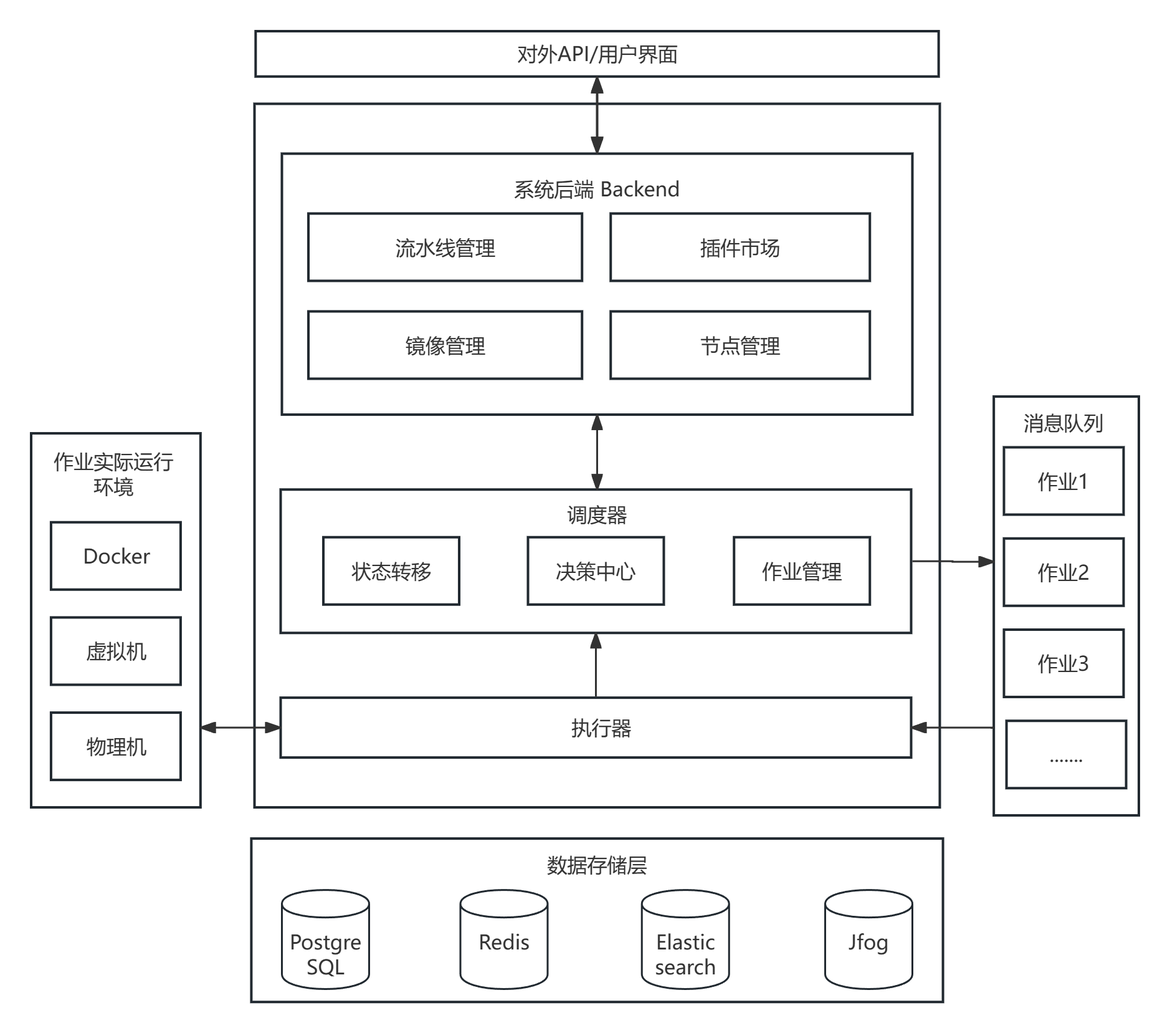
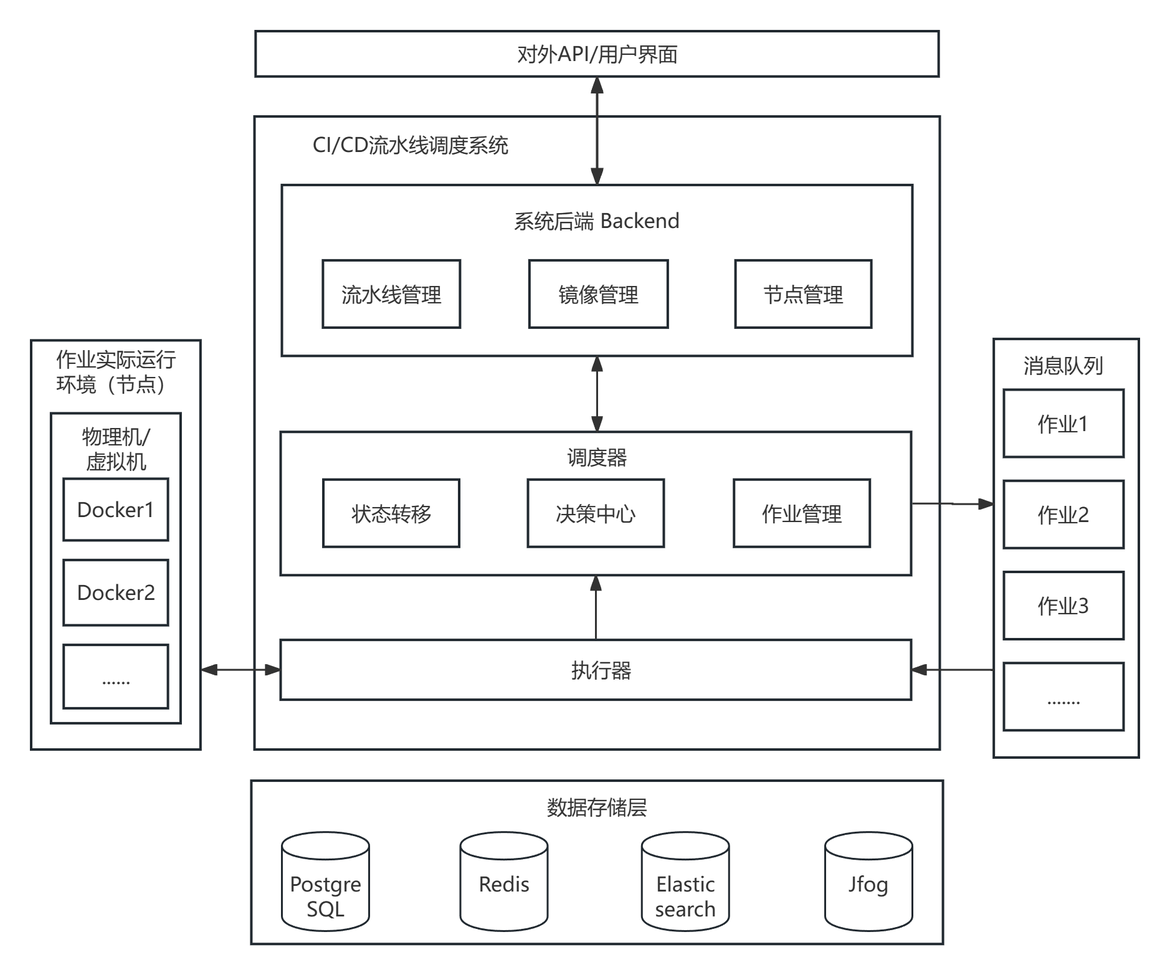
完成了摘要等

diff --git a/chapters/第六章 系统测试.tex b/chapters/第六章 系统测试.tex
@@ -1,9 +1,34 @@
 % !TeX root = ../main.tex
 
 \chapter{系统测试}
-一些废话
+本章将会从系统的功能性需求与非功能性需求两个方面，对前两个章节设计与实现的功能进行测试与分析。
+功能性需求采用黑盒测试，测试本系统能否正常地提供给用户流水线管理、镜像管理和节点管理的功能，同时也要重点测试人工干预流水线操作后流水线的状态转移。
+非功能性测试主要从两个方面进行，首先测试接口在不同并发量下的响应时间，然后从不同作业量下的响应时间和执行时间来测试调度器与执行器处理作业的能力。
+
 \section{测试环境}
-系统中需要部署的服务包括
+系统中需要部署的服务包括Backend服务、调度器服务、执行器服务、数据库服务PostgreSQL、缓存服务Redis、消息队列RocketMQ，镜像服务器，
+其中调度器服务与执行器服务为多实例部署。
+测试环境硬件配置清单如表\ref{tab:测试环境硬件配置清单}所示。
+
+\begin{table}[ht]
+  \centering
+  \caption{测试环境硬件配置清单}
+  \label{tab:测试环境硬件配置清单}
+  \renewcommand{\arraystretch}{1.5}
+  \begin{tabular}{|p{1cm}|p{1.5cm}|p{1cm}|p{1cm}|p{1cm}|p{6cm}|}
+  \hline
+  编号 & 操作系统 & CPU核心数 & 内存（GB）& 硬盘 & 部署服务 \\ \hline
+  1 & CentOS & 4 & 8 & 200G & 调度器 \\ \hline
+  2 & CentOS & 4 & 8 & 200G & 调度器 \\ \hline
+  
+  3 & CentOS & 4 & 8 & 200G & 镜像服务器 \\ \hline
+  4 & CentOS & 8 & 16 & 200G & 数据库服务PostgreSQL、缓存服务Redis、消息队列RocketMQ \\ \hline
+  5 & CentOS & 8 & 16 & 200G & 执行器 \\ \hline
+  6 & CentOS & 8 & 16 & 200G & 执行器 \\ \hline
+  7 & CentOS & 8 & 16 & 200G & Backend \\ \hline
+  \end{tabular}
+\end{table}
+
 
 \section{功能测试}
 本小节对系统的三个功能模块中的各个具体用例进行测试，并以测试用例的形式对过程进行了说明。
@@ -13,15 +38,23 @@
 
 设计作业管理测试用例时，检查点主要有对流水线及其各个子概念的创建、编辑、删除和查看，结果均符合预期，如表\ref{tab:作业管理测试用例表}所示。
 
-\begin{table}[ht]
-  \centering
-  \caption{作业管理测试用例表}
-  \label{tab:作业管理测试用例表}
-  \begin{tabular}{|p{1.5cm}|p{2.5cm}|p{3cm}|p{3cm}|p{1.5cm}|}
+\renewcommand{\arraystretch}{1.5}
+\begin{longtable}{|p{1.5cm}|p{2.5cm}|p{3cm}|p{3cm}|p{1.5cm}|}
+  \caption{作业管理测试用例表} \label{tab:作业管理测试用例表} \\
   \hline
   \multicolumn{1}{|p{1.5cm}|}{测试模块} & \multicolumn{4}{l|}{流水线管理} \\ \hline
   \multicolumn{1}{|p{1.5cm}|}{模块功能} & \multicolumn{4}{l|}{流水线的配置、编辑和查看} \\ \hline
   \multicolumn{1}{|p{1.5cm}|}{测试目的} & \multicolumn{4}{l|}{验证系统是否能正确地对流水线进行配置} \\ \hline
+  \endfirsthead
+  \multicolumn{5}{c}%
+  {{\bfseries \tablename\ \thetable{} -- 续表}} \\
+  \hline
+  \textbf{用例编号} & \textbf{检查点} & \textbf{操作步骤} & \textbf{预期输出} & \textbf{结果} \\ \hline
+  \endhead
+  \hline \multicolumn{5}{|r|}{{续下页}} \\ \hline
+  \endfoot
+  \hline
+  \endlastfoot
   用例编号 & 检查点 & 操作步骤 & 预期输出 & 结果 \\ \hline
   1-1-1 & 创建流水线 & 1、进入“我的流水线”Tab页，点击“创建”按钮； \newline 2、录入流水线基本设置； \newline 3、点击“保存”按钮。 & 1、出现创建成功提示信息； \newline 2、在UI界面中看到流水线记录。 & 符合预期 \\ \hline
   1-1-2 & 创建流水线\newline——创建阶段 & 1、在用例1-1-1中切换至拓扑编辑Tab页； \newline 2、在已有的初始阶段上录入基本设置； \newline 3、点击加号增加几个新的阶段并录入基本设置。 & 在流水线的拓扑结构UI界面中看到新创建的阶段 & 符合预期 \\ \hline
@@ -30,8 +63,8 @@
   1-2-1 & 编辑流水线 & 1、在“我的流水线”Tab页，在对应流水线处点击“编辑”按钮； \newline 2、修改基本设置； \newline 3、修改拓扑结构。 & 配置页和拓扑结构页的内容更新为编辑后的新内容 & 符合预期 \\ \hline
   1-3-1 & 删除流水线 & 1、在“我的流水线”Tab页，在对应流水线处点击“删除”按钮； \newline 2、在提示弹窗中点击“确认”按钮。 & 出现删除成功提示信息 & 符合预期 \\ \hline
   1-4-1 & 查看流水线配置 & 进入“我的流水线”Tab页，点击“查看”按钮。& 在UI界面中显示了流水线拓扑结构和基本配置 & 符合预期 \\ \hline
-  \end{tabular}
-\end{table}
+\end{longtable}
+
 
 在对流水线进行适当的增删改查后，系统中成功创建了一条流水线，流水线管理模块功能符合预期，如图\ref{fig:流水线截图}所示，该流水线是对示意图\ref{fig:典型流水线示意图}的实现。
 接下来将根据该流水线进行人工干预测试，验证其状态转移是否符合预期。
@@ -45,59 +78,83 @@
 
 对于人工干预流水线，主要的检查点是对流水线及其各个子概念的触发、跳过、重试、取消和人工审核，经过测试，结果均符合预期，如表\ref{tab:人工干预测试用例表}所示。
 
-\begin{table}[ht]
-  \centering
-  \caption{人工干预测试用例表}
-  \label{tab:人工干预测试用例表}
-  \begin{tabular}{|p{1.5cm}|p{2.5cm}|p{3cm}|p{3cm}|p{1.5cm}|}
+\renewcommand{\arraystretch}{1.5}
+\begin{longtable}{|p{1.5cm}|p{2.5cm}|p{3cm}|p{3cm}|p{1.5cm}|}
+  \caption{人工干预测试用例表} \label{tab:人工干预测试用例表} \\
   \hline
   \multicolumn{1}{|p{1.5cm}|}{测试模块} & \multicolumn{4}{l|}{人工干预} \\ \hline
   \multicolumn{1}{|p{1.5cm}|}{模块功能} & \multicolumn{4}{l|}{流水线、阶段、作业的触发、跳过、重试、取消和人工审核} \\ \hline
   \multicolumn{1}{|p{1.5cm}|}{测试目的} & \multicolumn{4}{l|}{验证人工干预后系统的状态流转与作业执行是否符合预期} \\ \hline
-  用例编号 & 检查点 & 操作步骤 & 预期输出 & 结果 \\ \hline
+  \endfirsthead
+  \multicolumn{5}{c}%
+  {{\bfseries \tablename\ \thetable{} -- 续表}} \\
+  \hline
+  \textbf{用例编号} & \textbf{检查点} & \textbf{操作步骤} & \textbf{预期输出} & \textbf{结果} \\ \hline
+  \endhead
+  \hline \multicolumn{5}{|r|}{{续下页}} \\ \hline
+  \endfoot
+  \hline
+  \endlastfoot
   2-1-1 & 触发流水线 & 1、进入图\ref{fig:流水线截图}所示的流水线预览页面； \newline 2、点击“触发”按钮。& 1、出现触发成功提示信息； \newline 2、在UI界面中看到流水线中作业的运行日志和状态流转。 & 符合预期 \\ \hline
   2-2-1 & 取消流水线 & 在用例2-1-1流水线执行页面中点击“中止”按钮。 & 流水线状态变为已取消，当前正在执行的作业状态变为已取消 & 符合预期 \\ \hline
   2-3-1 & 取消阶段 & 在用例2-1-1中点击正在执行中的阶段上的“中止”按钮。 & 指定的阶段状态变为已取消，阶段内的所有未执行完的作业状态变为已取消 & 符合预期 \\ \hline
   2-4-1 & 重试阶段 & 在用例2-3-1中点击被取消的阶段上的“重试”按钮。 & 原本已被取消的阶段变为执行中，阶段内的作业重新开始运行 & 符合预期 \\ \hline
-
   2-5-1 & 手动触发作业 & 选择类型为手动触发的作业，点击“触发”按钮 & 在节点资源充足的情况下，手动触发作业由就绪中转为执行中 & 符合预期 \\ \hline
   2-6-1 & 人工审核\newline——审核通过 & 选择类型为人工审核的作业的首个任务，点击“通过”按钮 & 在节点资源充足的情况下，人工审核作业由就绪中转为执行中 & 符合预期 \\ \hline
   2-6-2 & 人工审核\newline——审核驳回 & 选择类型为人工审核的作业的首个任务，点击“驳回”按钮 & 人工审核作业由就绪中转为执行失败 & 符合预期 \\ \hline
   2-7-1 & 取消作业 & 在用例2-1-1执行中的流水线上选择正在执行的流水线点击“取消”按钮 & 作业由执行中转为已取消 & 符合预期 \\ \hline
   2-8-1 & 跳过作业 & 在用例2-1-1执行中的流水线上选择正在执行的流水线点击“跳过”按钮 & 作业由执行中转为已跳过，下一个作业开始执行 & 符合预期 \\ \hline
   2-9-1 & 重试作业 & 在用例2-7-1选择已取消的作业上点击“重试”按钮 & 在节点资源充足的情况下，作业由已取消转为执行中 & 符合预期 \\ \hline
-  \end{tabular}
-\end{table}
+\end{longtable}
 
+接下来对镜像管理模块进行测试用例设计与分析，由于系统中的镜像不仅包含数据库中的记录，也包含镜像服务器中的镜像实体，所以测试对镜像的上传和删除时，需要进入镜像服务器进行验证，同时也要注意测试删除镜像时是否完全清理了Manifest文件和Layer文件。
+经过测试，结果均符合预期，如表\ref{tab:人工干预测试用例表}所示。
 
-\begin{table}[ht]
-  \centering
-  \caption{镜像管理测试用例表}
-  \label{tab:镜像管理测试用例表}
-  \begin{tabular}{|p{1.5cm}|p{2.5cm}|p{3cm}|p{3cm}|p{1.5cm}|}
+\renewcommand{\arraystretch}{1.5}
+\begin{longtable}{|p{1.5cm}|p{2.5cm}|p{3cm}|p{3cm}|p{1.5cm}|}
+  \caption{镜像管理测试用例表} \label{tab:镜像管理测试用例表} \\
   \hline
   \multicolumn{1}{|p{1.5cm}|}{测试模块} & \multicolumn{4}{l|}{镜像管理} \\ \hline
   \multicolumn{1}{|p{1.5cm}|}{模块功能} & \multicolumn{4}{l|}{镜像的制作、删除与上传} \\ \hline
   \multicolumn{1}{|p{1.5cm}|}{测试目的} & \multicolumn{4}{l|}{验证系统对镜像的操作能否正常执行，镜像服务器中镜像是否正常存储与清理} \\ \hline
+  \endfirsthead
+  \multicolumn{5}{c}%
+  {{\bfseries \tablename\ \thetable{} -- 续表}} \\
+  \hline
+  \textbf{用例编号} & \textbf{检查点} & \textbf{操作步骤} & \textbf{预期输出} & \textbf{结果} \\ \hline
+  \endhead
+  \hline \multicolumn{5}{|r|}{{续下页}} \\ \hline
+  \endfoot
+  \hline
+  \endlastfoot
   用例编号 & 检查点 & 操作步骤 & 预期输出 & 结果 \\ \hline
   3-1-1 & 制作镜像\newline——dockfile方法 & 1、进入“镜像管理”Tab页，点击“镜像制作”；\newline 2、填写镜像基本信息；\newline 3、上传Dockerfile文件后点击“构建”。& 1、出现制作成功提示信息； \newline 2、在“镜像列表”中查看到新制作的镜像。 & 符合预期 \\ \hline
   3-1-2 & 制作镜像\newline——commit方法 & 1、进入“镜像管理”Tab页，点击“镜像制作”；\newline 2、填写镜像基本信息；\newline 3、选择基础镜像点击“构建”；\newline 4、在终端进行配置操作；5、点击“构建”按钮。 & 1、出现制作成功提示信息； \newline 2、在“镜像列表”中查看到新制作的镜像。 & 符合预期 \\ \hline
   3-2-1 & 编辑镜像 & 1、在用例3-1-1或3-1-2的基础上，点击制作好的镜像上的“编辑”；\newline 2、编辑镜像基本信息后点击“保存”；& 镜像信息更新为编辑后的新内容。 & 符合预期 \\ \hline
   3-3-1 & 上传镜像 & 在用例3-1-1或3-1-2的基础上，点击制作好的镜像上的“上传”。& 1、出现上传成功提示信息；2、在镜像服务器中可以查看到对应镜像。 & 符合预期 \\ \hline
   3-4-1 & 删除镜像 & 在用例3-3-1基础上，点击已上传的镜像点击“删除” & 1、出现删除成功提示信息；2、在镜像服务器上查看对应的Manifest文件和Layer文件已被删除。 & 符合预期 \\ \hline
-  \end{tabular}
-\end{table}
+\end{longtable}
 
+最后对镜像管理模块进行测试用例设计与分析，注意节点的部署和删除等操作会在对应的服务器中安装、启动和卸载服务，测试时需要对服务的可用性进行验证。
+节点的Tag与作业的匹配也是节点正常运作的重要测试点，节点部署后需要验证与当前节点Tag相同的作业在此节点上运行。
 
-\begin{table}[ht]
-  \centering
-  \caption{节点管理测试用例表}
-  \label{tab:节点管理测试用例表}
-  \begin{tabular}{|p{1.5cm}|p{2.5cm}|p{3cm}|p{3cm}|p{1.5cm}|}
+\renewcommand{\arraystretch}{1.5}
+\begin{longtable}{|p{1.5cm}|p{2.5cm}|p{3cm}|p{3cm}|p{1.5cm}|}
+  \caption{节点管理测试用例表} \label{tab:节点管理测试用例表} \\
   \hline
   \multicolumn{1}{|p{1.5cm}|}{测试模块} & \multicolumn{4}{l|}{节点管理} \\ \hline
   \multicolumn{1}{|p{1.5cm}|}{模块功能} & \multicolumn{4}{l|}{节点的注册、编辑、部署、上下线与删除} \\ \hline
   \multicolumn{1}{|p{1.5cm}|}{测试目的} & \multicolumn{4}{l|}{验证对系统对节点的操作能否正常执行，与节点服务器的连接与操作是否符合预期} \\ \hline
+  \endfirsthead
+  \multicolumn{5}{c}%
+  {{\bfseries \tablename\ \thetable{} -- 续表}} \\
+  \hline
+  \textbf{用例编号} & \textbf{检查点} & \textbf{操作步骤} & \textbf{预期输出} & \textbf{结果} \\ \hline
+  \endhead
+  \hline \multicolumn{5}{|r|}{{续下页}} \\ \hline
+  \endfoot
+  \hline
+  \endlastfoot
   用例编号 & 检查点 & 操作步骤 & 预期输出 & 结果 \\ \hline
   4-1-1 & 注册节点 & 1、进入“节点管理”Tab页，点击“注册新节点”；\newline 2、录入节点基本信息；\newline 3、点击“保存”。& 1、出现注册成功提示信息； \newline 2、在“节点列表”中查看到新注册的节点；\newline 3、查看到节点的状态为“待部署”。 & 符合预期 \\ \hline
   4-2-1 & 编辑节点 & 1、选择用例4-1-1创建的节点，点击“编辑”；\newline 2、编辑节点基本信息；\newline 3、点击“保存”；& 节点信息更新为编辑后的新内容。& 符合预期 \\ \hline
@@ -105,8 +162,7 @@
   4-4-1 & 节点上线 & 选择用例4-3-1已部署的节点，点击“上线”；& 1、节点转变为“在线”状态；\newline 2、查看到与当前节点Tag相同的作业在此节点上运行。 & 符合预期 \\ \hline
   4-5-1 & 节点下线 & 选择用例4-4-1已上线的节点，点击“下线”；& 节点转变为“离线”状态 & 符合预期 \\ \hline
   4-6-1 & 节点删除 & 1、选择用例4-5-1已下线的节点，点击“删除”；\newline 2、在弹窗中点击“确认” & 出现删除成功提示信息。& 符合预期 \\ \hline
-  \end{tabular}
-\end{table}
+\end{longtable}
 
 \section{性能测试}
 接下来将分别测试Backend部分、调度器与执行器的性能。
@@ -137,13 +193,14 @@
 同时，随着企业服务的用户数量增长和业务扩展，流水线与流水线作业只会越来越多。
 因此需要对系统在大作业量下的调度器和执行器性能进行测试，以保证系统能否很好地应对突发流量，并且能够在紧急情况下快速扩容，同时了解系统性能瓶颈，以便日后改进。
 
-对调度器和执行器的整体性能测试如下：
+对调度器和执行器的整体性能测试计划如表\ref{tab:调度器与执行器性能测试计划表}所示。
 
 \begin{table}[ht]
   \centering
-  \caption{调度器与执行器}
+  \caption{调度器与执行器性能测试计划表}
   \label{tab:调度器与执行器性能测试计划表}
-  \begin{tabular}{|p{2cm}|p{10cm}|}
+  \renewcommand{\arraystretch}{1.5}
+  \begin{tabular}{|p{3cm}|p{10cm}|}
   \hline
   测试模块 & 调度器与执行器 \\ \hline
   测试目的 & 测试调度器与执行器在不同作业量下的整体性能 \\ \hline
@@ -154,5 +211,39 @@
   \end{tabular}
 \end{table}
 
-\section{测试情况与测试结论}
+经过测试，流水线作业数量与响应时长关系如图\ref{fig:作业量与响应时长关系图}所示。
+通常来说，企业内每小时平均任务量通常不会超过1000个，约每分钟16个，高峰期每小时平均任务量不会超过2000个，约每分钟33个。
+系统要求无论在何种情况下都能在2秒内给予响应，根据测试结果可以发现，在每分钟16个作业的正常情况下，系统的平均响应时长不超过150ms，
+在每分钟40个作业的极端情况下，响应时长也刚刚超过1秒，所以调度器和执行器在运行流水线的响应时间上能够满足要求。
+调度器和执行器在响应时间上性能优异，这主要是因为调度器主要是进行业务逻辑处理，当需要触发作业时，只需要将作业放入消息队列后异步返回结果即可。
+
+\begin{figure}[h]
+  \centering
+  \includegraphics[width=0.8\textwidth]{作业量与响应时间关系图.png}
+  \caption{作业量与响应时长关系图}
+  \label{fig:作业量与响应时长关系图}
+\end{figure}
+
+对于作业执行耗时方面，作业数量与执行时长关系如图\ref{fig:作业量与执行时长关系图}所示。
+可以看到，在每分钟作业量小于20个时，测试流水线的平均运行时长均在8分钟左右，可以合理判断当此时调度器与执行器的负载都不高。
+同时注意到消息队列中没有出现作业堆积，也说明了当前作业量并没有超出执行器的负载。
+当每分钟作业量大于25个时，流水线的最长执行时长陡增，同时查看消息队列发现开始产生作业堆积。
+当每分钟作业量大于35个时，流水线的平均执行时长已经超过20分钟，查看消息队列发现产生大量作业堆积，此时系统可用性已经大大降低，
+由于调度器是处理完作业才放入消息队列，可见此时调度器的负载较小，主要负载在于执行器。
+
+\begin{figure}[h]
+  \centering
+  \includegraphics[width=0.8\textwidth]{作业量与执行时长关系图.png}
+  \caption{作业量与执行时长关系图}
+  \label{fig:作业量与执行时长关系图}
+\end{figure}
+
+\section{测试结论}
+
+根据以上测试，在功能方面，本系统在所有的测试用例中的测试结果均符合预期。性能方面，Backend部分接口性能优异，在不高于1000次请求的并发量下，系统的平均响应时长均小于1秒；
+调度器和执行器的响应时长在正常情况下不超过150ms，在系统使用高峰期不超过1秒，能够满足用户需求，
+对于作业执行时长来说，当每分钟作业量超过35个时，调度器和执行器出现了明显的性能瓶颈，根据分析，该性能瓶颈在于执行器而不在调度器，在后续扩展系统服务能力时应重点考虑扩展执行器集群机器数量或增强硬件配置。
+同时由于系统本身能够借助Kubernetes进行横向扩展，现阶段的机器配置能够满足日常需求。
+
+
 

diff --git a/chapters/第三章 需求分析.tex b/chapters/第三章 需求分析.tex
@@ -17,7 +17,7 @@
 \subsubsection{开发团队需求}
 开发团队期望系统能提供一站式服务，自动完成从代码提交到部署的整个流程。
 并且对系统的定制性有一定要求，开发团队希望流水线系统支持丰富的功能支持，以便满足多样化的需求。
-同时开发人员希望流水线以及流水线中作业、任务能够最好以模板化、插件化的形式存在，以便开发人员能够以最高的效率完成流水线的定义与配置，从而将更多精力投入到开发工作本身。
+同时开发人员希望流水线中的拓扑结构能够以图块拖拽的形式进行组合，以便开发人员能够以最高的效率完成流水线的定义与配置，从而将更多精力投入到开发工作本身。
 
 \subsubsection{测试团队需求}
 测试团队希望流水线平台能够充分自动化，以缓解测试的人力资源需求，希望系统能够自动执行各种测试，包括单元测试、集成测试和性能测试等；
@@ -217,37 +217,37 @@ CI/CD流水线的形态十分复杂，包含了三种不同类型的子概念：
   \label{fig:镜像管理用例图}
 \end{figure}
 
-\subsection{插件化需求}
-CI/CD流水线系统的最终目的是提高企业用户的开发效率。
-市面上现有的持续集成系统，在用户配置流水线的作业时，往往只有系统预置的一些功能模块可供选择，大大限制了系统的灵活性；
-又或是需要用户亲自进行大量的配置和脚本编写，以满足一条复杂流水线中不同作业的需求。
-为处理这种灵活性与效率之间的矛盾，插件化是一种很好解决方式，系统管理团队将会预提供一个丰富多样的插件库，同时也需支持用户自行定义插件，自用或发布到插件市场中。
-如此一来，当用户构建一条流水线时，可以根据自己选择不同的插件来组合成流水线作业，从而快速完成流水线的配置。
+% \subsection{插件化需求}
+% CI/CD流水线系统的最终目的是提高企业用户的开发效率。
+% 市面上现有的持续集成系统，在用户配置流水线的作业时，往往只有系统预置的一些功能模块可供选择，大大限制了系统的灵活性；
+% 又或是需要用户亲自进行大量的配置和脚本编写，以满足一条复杂流水线中不同作业的需求。
+% 为处理这种灵活性与效率之间的矛盾，插件化是一种很好解决方式，系统管理团队将会预提供一个丰富多样的插件库，同时也需支持用户自行定义插件，自用或发布到插件市场中。
+% 如此一来，当用户构建一条流水线时，可以根据自己选择不同的插件来组合成流水线作业，从而快速完成流水线的配置。
 
-插件市场中主要包含如下内容：
+% 插件市场中主要包含如下内容：
 
-\subsubsection{插件管理}
-在CI/CD系统中，插件本质上是对一套配置清单和一个执行脚本的抽象，这种设计旨在简化插件的使用和集成过程，使用户能够通过填写配置清单来定制插件行为，然后执行脚本以在CI/CD流程中实现特定功能。
-系统应让用户能够轻松管理和编写自己的自定义插件，同时提供一种机制，使用户能够编辑出属于该插件的配置清单（即使用该插件时需要填写的配置信息），并确保脚本的安全、有效执行。
-同时，系统应支持插件的版本管理。每当插件更新时，应记录版本历史，允许用户选择特定版本进行安装。如果新版本存在问题，这一机制确保了用户可以轻松回退到旧版本。
+% \subsubsection{插件管理}
+% 在CI/CD系统中，插件本质上是对一套配置清单和一个执行脚本的抽象，这种设计旨在简化插件的使用和集成过程，使用户能够通过填写配置清单来定制插件行为，然后执行脚本以在CI/CD流程中实现特定功能。
+% 系统应让用户能够轻松管理和编写自己的自定义插件，同时提供一种机制，使用户能够编辑出属于该插件的配置清单（即使用该插件时需要填写的配置信息），并确保脚本的安全、有效执行。
+% 同时，系统应支持插件的版本管理。每当插件更新时，应记录版本历史，允许用户选择特定版本进行安装。如果新版本存在问题，这一机制确保了用户可以轻松回退到旧版本。
 
-\subsubsection{插件发布}
-开发者在自定义插件并满足个人或团队需求后，可以选择将其发布到插件市场中，供其他用户使用。
-发布流程应简洁明了，并支持插件的描述、分类和版本信息定义。
+% \subsubsection{插件发布}
+% 开发者在自定义插件并满足个人或团队需求后，可以选择将其发布到插件市场中，供其他用户使用。
+% 发布流程应简洁明了，并支持插件的描述、分类和版本信息定义。
 
-\subsubsection{插件审核}
-安全性是插件市场的重要考虑因素。
-市场应该只托管经过审核的插件，确保不含有恶意代码或存在安全漏洞，未经审核的插件一旦在节点中运行，可能会对系统安全产生影响。
-插件的发布和版本更新应由指定的审核人进行通过或驳回。
+% \subsubsection{插件审核}
+% 安全性是插件市场的重要考虑因素。
+% 市场应该只托管经过审核的插件，确保不含有恶意代码或存在安全漏洞，未经审核的插件一旦在节点中运行，可能会对系统安全产生影响。
+% 插件的发布和版本更新应由指定的审核人进行通过或驳回。
 
-插件市场的用例图如图~ \ref{fig:插件市场用例图}所示。
+% 插件市场的用例图如图~ \ref{fig:插件市场用例图}所示。
 
-\begin{figure}[h]
-  \centering
-  \includegraphics[width=0.7\textwidth]{插件市场用例图.png}
-  \caption{插件市场用例图}
-  \label{fig:插件市场用例图}
-\end{figure}
+% \begin{figure}[h]
+%   \centering
+%   \includegraphics[width=0.7\textwidth]{插件市场用例图.png}
+%   \caption{插件市场用例图}
+%   \label{fig:插件市场用例图}
+% \end{figure}
 
 \subsection{状态流转需求}
 在流水线的执行过程中，流水线中的每个子概念都在不同的状态间流转，通常来说应有如下状态：
@@ -276,7 +276,7 @@ CI/CD调度系统需要保障流水线作业能够进行正确的状态流转，
 
 \subsubsection{高性能}
 本系统致力于提升效能，提高用户的研发效率，需要保证优秀的性能和较短的响应时间。
-当用户进行流水线管理时，对流水线配置的增删改查应在1s内完成；
+当用户进行流水线管理时，对流水线配置的增删改查应在2s内完成；
 当用户人为干预流水线时，系统应在2s内给予用户反馈；
 当流水线中阶段、作业或者任务的状态发生改变时，应在5s内对用户进行展示。
 

diff --git a/chapters/abstract.tex b/chapters/abstract.tex
@@ -6,25 +6,24 @@
 }
 
 \begin{abstract}
-  摘要分中文和英文两种，中文在前，英文在后，博士论文中文摘要一般 800～1500 个汉字，硕士论文中文摘要一般 500～1000 个汉字。
-  英文摘要的篇幅参照中文摘要。
+  随着软件工程的理论发展与工程实践，敏捷开发成为了现代软件开发的主流模式，软件迭代周期大幅缩短，每天都需要进行持续集成与持续交付，
+  继而发布新的版本。一个软件的迭代周期包含着诸多阶段，如果这些步骤每次都需要人工定义与执行，无疑会降低开发效率且容易出错。
 
-  关键词另起一行并隔行排列于摘要下方，左顶格，中文关键词间空一字或用分号“，”隔开，英文关键词之间用逗号“,”或分号“;”隔开。
+  在这样的背景下，通过建设一套自动化的持续集成与持续交付平台，可以自动化地完成测试、构建和部署等一系列行为，降低开发与运维过程中的人力和时间成本，提升企业效能。
+  在调研了当前市面的持续集成与持续交付平台后，发现以Jenkins为代表的主流平台存在使用门槛高、流水线层级划分粒度粗和功能不够丰富等痛点问题，难以满足企业和用户日益增加的业务场景需求。
+  本文设计并开发了一套基于容器化的持续集成与持续交付调度系统，抛弃传统平台使用配置文件来定义流水线的方法，而是使用图形化界面来实现对流水线的配置与拓扑结构的编辑，极大地降低了平台使用门槛。
+  在功能上，本系统设计了丰富的人工干预流水线操作，如跳过、取消、重试和人工审核等，极大地丰富了流水线运行过程中的可操作性，满足不同的业务需求，同时允许用户对执行流水线作业所需的镜像和节点进行管理，提升用户的使用效率。
+  在架构上，本系统以Docker容器作为系统执行器的执行环境，并提供故障转移与横向扩展功能，提高了作业执行的一致性与隔离性。
 
-  中文摘要是论文内容的总结概括，应简要说明论文的研究目的、基本研究内容、研究方法或过程、结果和结论，突出论文的创新之处。
-  摘要应具有独立性和自明性，即不用阅读全文，就能获得论文必要的信息。
-  摘要中不宜使用公式、图表，不引用文献。
+  经过系统测试，本系统功能性需求符合预期，在非作业高峰期时系统性能达到了预期目标，在系统承载作业量达35个/分钟，系统开始出现性能瓶颈，
+  在绝大多非极端情况下满足能够用户需求。同时，系统将在后续的迭代中持续更新，提高系统的性能与质量。
 
-  中文关键词是为了文献标引工作从论文中选取出来用以表示全文主题内容信息的单词和术语，一般 3～8 个词，要求能够准确概括论文的核心内容。
 \end{abstract}
 
 \begin{abstract*}
-  This is a sample document of USTC thesis \LaTeX{} template for bachelor,
-  master and doctor. The template is created by zepinglee and seisman, which
-  orignate from the template created by ywg. The template meets the
-  equirements of USTC thesis writing standards.
+  With the theoretical development and engineering practice of software engineering, agile development has become the mainstream model of modern software development. The software iteration cycle has significantly shortened, necessitating continuous integration and continuous delivery every day to release new versions. A software's iteration cycle includes many phases, and if these steps need to be manually defined and executed each time, it will undoubtedly reduce development efficiency and be prone to errors.
 
-  This document will show the usage of basic commands provided by \LaTeX{} and
-  some features provided by the template. For more information, please refer to
-  the template document ustcthesis.pdf.
+In this context, by building an automated continuous integration and delivery platform, it is possible to automate a series of actions such as testing, building, and deploying, thereby reducing the manpower and time costs in the development and operation process and enhancing enterprise efficiency. After researching the current market's continuous integration and delivery platforms, it has been found that mainstream platforms represented by Jenkins have pain points such as a high usage threshold, coarse granularity of pipeline hierarchical division, and lack of rich features, which are difficult to meet the increasing business scenario needs of enterprises and users. This paper designs and develops a containerized continuous integration and delivery scheduling system, abandoning the traditional platform's method of defining pipelines with configuration files and instead using a graphical interface to configure and edit the topology structure of pipelines, greatly lowering the platform's usage threshold. In terms of functionality, this system has designed a rich set of manual pipeline operations, such as skip, cancel, retry, and manual review, greatly enriching the operability during the pipeline's execution process to meet different business needs, while allowing users to manage the images and nodes required for executing pipeline jobs, enhancing user efficiency. Architecturally, this system uses Docker containers as the execution environment for the system executor and provides failover and horizontal scaling functions, improving the consistency and isolation of job execution.
+
+After system testing, the functional requirements of the system have been met as expected, and the system performance has reached the expected targets during non-peak periods. When the system job load reaches 35 jobs/minute, the system begins to experience performance bottlenecks, but it satisfies user needs in the vast majority of non-extreme cases. Additionally, the system will continue to be updated in subsequent iterations to improve system performance and quality.
 \end{abstract*}

diff --git a/chapters/第七章 结论与展望.tex b/chapters/第七章 结论与展望.tex
@@ -2,3 +2,20 @@
 
 \chapter{结论与展望}
 
+\section{结论}
+
+为了提升企业效能，贯彻敏捷开发思想，同时解决以Jenkins为代表的市面主流CI/CD流水线平台的痛点，
+本文通过调研了国内外CI/CD流水线系统的研究现状，基于对企业内不同团队人员的需求分析，经过系统的概要设计、详细设计与测试，
+完成了基于容器化的CI/CD流水线调度系统的设计与开发。
+系统能够满足用户对流水线以及流水线作业的构建与设计，允许用户进行丰富的人工干预操作，
+同时允许用户管理流水线作业所使用的镜像与执行节点，并在流水线运行过程中对作业进行调度，控制其中各个实体的流转状态，最终将作业分发个不同的作业执行器进行执行，得到执行结果与产物。
+
+具体来说，本文完成的工作主要有以下几点：
+
+
+
+\section{工作展望}
+
+目前为止，国内外对于CI/CD平台建设还未形成一套通用的最佳实践
+
+首先，

diff --git a/ustcsetup.tex b/ustcsetup.tex
@@ -41,6 +41,7 @@
 
 \usepackage{multirow}
 \usepackage{array}
+\usepackage{longtable}
 
 % 算法
 \usepackage[ruled,linesnumbered]{algorithm2e}
